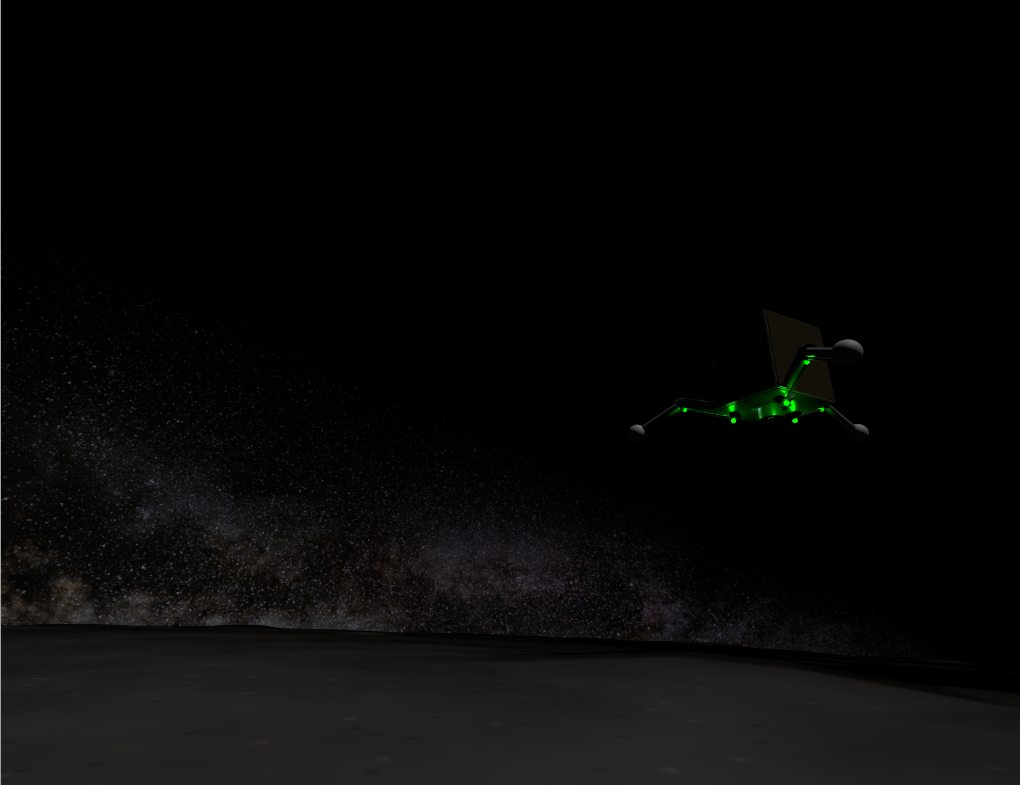
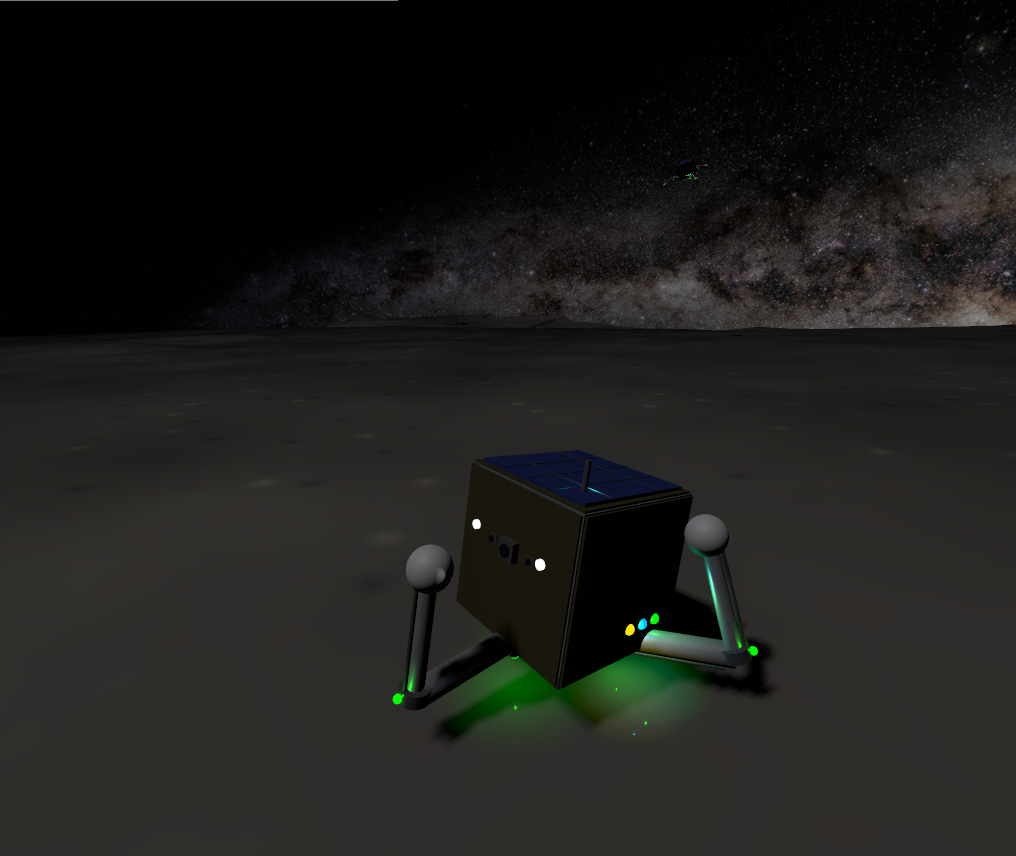
Paper figures finalized: live-simulation screenshots throughout (environment vista, realized model, mid-hop, full dashboard), AI concept render removed, visible captions under every figure, numbering in document order

diff --git a/docs/Research_Paper.md b/docs/Research_Paper.md
@@ -20,13 +20,17 @@ Accurate physical evaluation of locomotion strategies necessitates a high-fideli
 
 A 1025×1025 collision heightmap was derived from the official Hayabusa2 Structure-from-Motion shape model (`SHAPE_SFM_49k_v20180804.obj`) [3]. The selected cross-section reflects the dense cratering and rocky ridges characteristic of Ryugu's equatorial band, mapped onto a 100 m × 100 m traversal field with 5 m of vertical relief.
 
-![Figure 1: Lateral X-axis projection heightmap derived from the Hayabusa2 SfM shape model, detailing Ryugu's equatorial ridge.](heightmap_preview.png)
+![Terrain heightmap](heightmap_preview.png)
+
+*Figure 1: Lateral X-axis projection heightmap derived from the Hayabusa2 SfM shape model, detailing Ryugu's equatorial ridge.*
 
 ### 2.2 Microgravity and Illumination
 
 The gravity vector was set to 1.14×10⁻⁴ m/s², the lower bound of Ryugu's latitude-dependent surface gravity [1] and the most demanding case for traction and rebound control. The celestial backdrop is the ESO/S. Brunier Milky Way panorama mapped onto an equirectangular sky sphere [4]; scene illumination is a single directional source representing the Sun, consistent with Ryugu's atmosphere-free lighting. Solar power is physically plausible at Ryugu's 0.96–1.42 AU orbit (~960 W/m² at the 1.19 AU semi-major axis — the same regime in which the solar-powered MINERVA-II rovers operated [8]).
 
-![Figure 3: The simulated environment — heightmap regolith terrain beneath the ESO Milky Way panorama, with a scout (green status LEDs, center-left) descending toward the surface.](fig_swarm_terrain.png)
+![Simulated environment](fig_swarm_terrain.png)
+
+*Figure 2: The simulated environment — heightmap regolith terrain beneath the ESO Milky Way panorama, with a landed scout in the foreground and a second agent visible against the galactic band.*
 
 ### 2.3 Software Architecture
 
@@ -57,7 +61,7 @@ flowchart LR
     BR -- "IMU, odometry" --> ATT & LAND & SM & GUI
 ```
 
-*Figure 4: System architecture. The `landed` and `righting_active` flags implement strict actuator arbitration — exactly one node commands any actuator at any time (§7).*
+*Figure 3: System architecture. The `landed` and `righting_active` flags implement strict actuator arbitration — exactly one node commands any actuator at any time (§7).*
 
 ## 3. System Design
 
@@ -74,9 +78,9 @@ The SpaceHopper is a compact, 2.50 kg tri-pedal robot whose mass distribution ke
 | **Thermal & Solar** | GaAs solar arrays, Kapton MLI blankets | 0.15 | 6% |
 | **Total Operational Mass** | | **2.50 kg** | **100%** |
 
-![Figure 2: Rendering of the SpaceHopper concept, showcasing the GaAs solar arrays, thermal louvers, and articulated legs.](spacehopper_concept_1783933381656.png)
+![The SpaceHopper model](fig_robot_closeup.png)
 
-![Figure 5: The realized simulation model descending over the regolith — articulated tri-pedal legs with spherical feet, hip status LEDs, solar panel, and the Milky Way backdrop.](fig_robot_closeup.png)
+*Figure 4: The SpaceHopper model on the simulated regolith — tri-pedal articulated legs with spherical feet, solar array, stereo hazard cameras, and hip status LEDs casting the characteristic green underglow.*
 
 ### 3.1 Jumping Dynamics
 
@@ -89,6 +93,10 @@ and with a leg stroke of $d = 0.1$ m, a mean thrust of only $F = E_p/d = 1.4\tim
 **Launch stroke geometry.** Total foot–regolith friction capacity is $\mu m g \approx 2.9\times10^{-4}$ N; any lateral component of leg force therefore slides the feet rather than lifting the body. The deployed stroke keeps each foot directly beneath its hip through the entire extension (a "zigzag" leg posture — calf angled back inward), so the ground reaction remains vertical. Distance-scaled hopping treats the commanded stroke as a fraction of the full extension, calibrated by the measured full-stroke separation velocity $V_{FULL} = 0.025$ m/s.
 
 **Directional hopping.** A purely vertical stroke has no ground range. Directionality is obtained by combining reaction-wheel yaw pointing (the swarm layer commands a target heading; the yaw-hold loop aligns the body) with a modest forward-lean differential built into the crouch (the leading leg is flexed 0.25 rad further, the trailing pair 0.125 rad less, preserving mean stance height). The lean tilts the thrust vector approximately 34° from vertical, partitioning the measured 24.9 mm/s separation velocity into ~22 mm/s vertical and ~15 mm/s horizontal components. Measured single-hop performance: **9.1 m of horizontal displacement** over a clean ballistic arc (apex +2.2 m, ~13-minute flight), landing settled and confirmed. The launch-torque asymmetry introduced by the lean is bounded and removed within seconds by the attitude controller (§3.2).
+
+![Directional hop in flight](fig_hop_flight.png)
+
+*Figure 5: A scout mid-hop. The forward lean is visible in the body attitude; the shadow on the regolith below shows the altitude gained within seconds of the stroke.*
 
 #### 3.1.1 Escape-Velocity Margin and Containment
 
@@ -235,11 +243,13 @@ sequenceDiagram
     end
 ```
 
-*Figure 8: Auction-based tasking and sampling sequence, as executed live by the three-agent swarm.*
+*Figure 7: Auction-based tasking and sampling sequence, as executed live by the three-agent swarm.*
 
 Robustness mechanisms, each mapped to an observed failure mode of naive dispatching: unfinished tasks are re-queued when an agent is forced to RECHARGE or drops offline (10 s odometry-liveness watchdog); arrival is gated on real odometry (within 3 m *and* landed); journeys are dispatched as range-matched legs of at most the measured 9 m hop range, with up to five cooldown-paced corrective re-hops held as an error-correction reserve; core extraction occupies a finite 8 s drill dwell so the power model reflects a real duty cycle; and task coordinates are clamped inside the physical containment boundary, so no assignment is unreachable by construction.
 
-![Figure 9: The mission telemetry dashboard during a live run — differentiated roles (one RELAY, two SAMPLERs en route), per-agent battery and charge rate, attitude indicators, leg and reaction-wheel state.](fig_dashboard.png)
+![Mission telemetry dashboard](fig_dashboard.png)
+
+*Figure 8: The mission telemetry dashboard during a live run — differentiated roles (one RELAY, two SAMPLERs en route), per-agent battery and charge rate, attitude indicators, leg and reaction-wheel state.*
 
 ## 5. Scientific Payload
 
@@ -250,9 +260,11 @@ Unlike explosive kinetic impactors, the SpaceHopper performs delicate, non-destr
 All results below are from live closed-loop simulation telemetry (IMU, odometry, and physics-engine ground truth), not open-loop estimates.
 
 * **Launch:** full-stroke separation velocity 24.9 mm/s at the deployed damping — 35% margin over the 18.5 mm/s a 3 m hop requires. Clean ballistic arcs with apex energy matching $v^2/2g$ within measurement noise.
-* **Directional range:** 9.1 m horizontal displacement per full-stroke hop (thrust tilt ≈34°, ~15 mm/s horizontal / ~22 mm/s vertical), landing settled and confirmed. Figure 7 shows the measured trajectory.
+* **Directional range:** 9.1 m horizontal displacement per full-stroke hop (thrust tilt ≈34°, ~15 mm/s horizontal / ~22 mm/s vertical), landing settled and confirmed. Figure 9 shows the measured trajectory.
 
-![Figure 7: Measured single-hop trajectory from odometry telemetry — (a) the ballistic altitude profile (apex +2.2 m over a ~13-minute flight) and (b) the straight-line ground track covering 9.1 m.](fig_hop_trajectory.png)
+![Measured hop trajectory](fig_hop_trajectory.png)
+
+*Figure 9: Measured single-hop trajectory from odometry telemetry — (a) the ballistic altitude profile (apex +2.2 m over a ~13-minute flight) and (b) the straight-line ground track covering 9.1 m.*
 * **Flight stabilization:** in-flight body rates damped to 0.005–0.015 rad/s; launch transients of 0.24 rad/s removed within seconds; no persistent yaw spin. A commanded 107° yaw slew converged overdamped and held within 1° at zero rate; a 165° tumble was damped to 3.6° in ~20 s.
 * **Self-righting:** recovery from forced full inversion in ~9 s via the reaction-wheel roll, including self-correction of an initial wrong-direction guess.
 * **Landing:** decaying-bounce settle and confirmed LANDED in ~14 min after a full-stroke hop; no false confirmations in flight and no post-landing self-ejection across the final verification runs.
